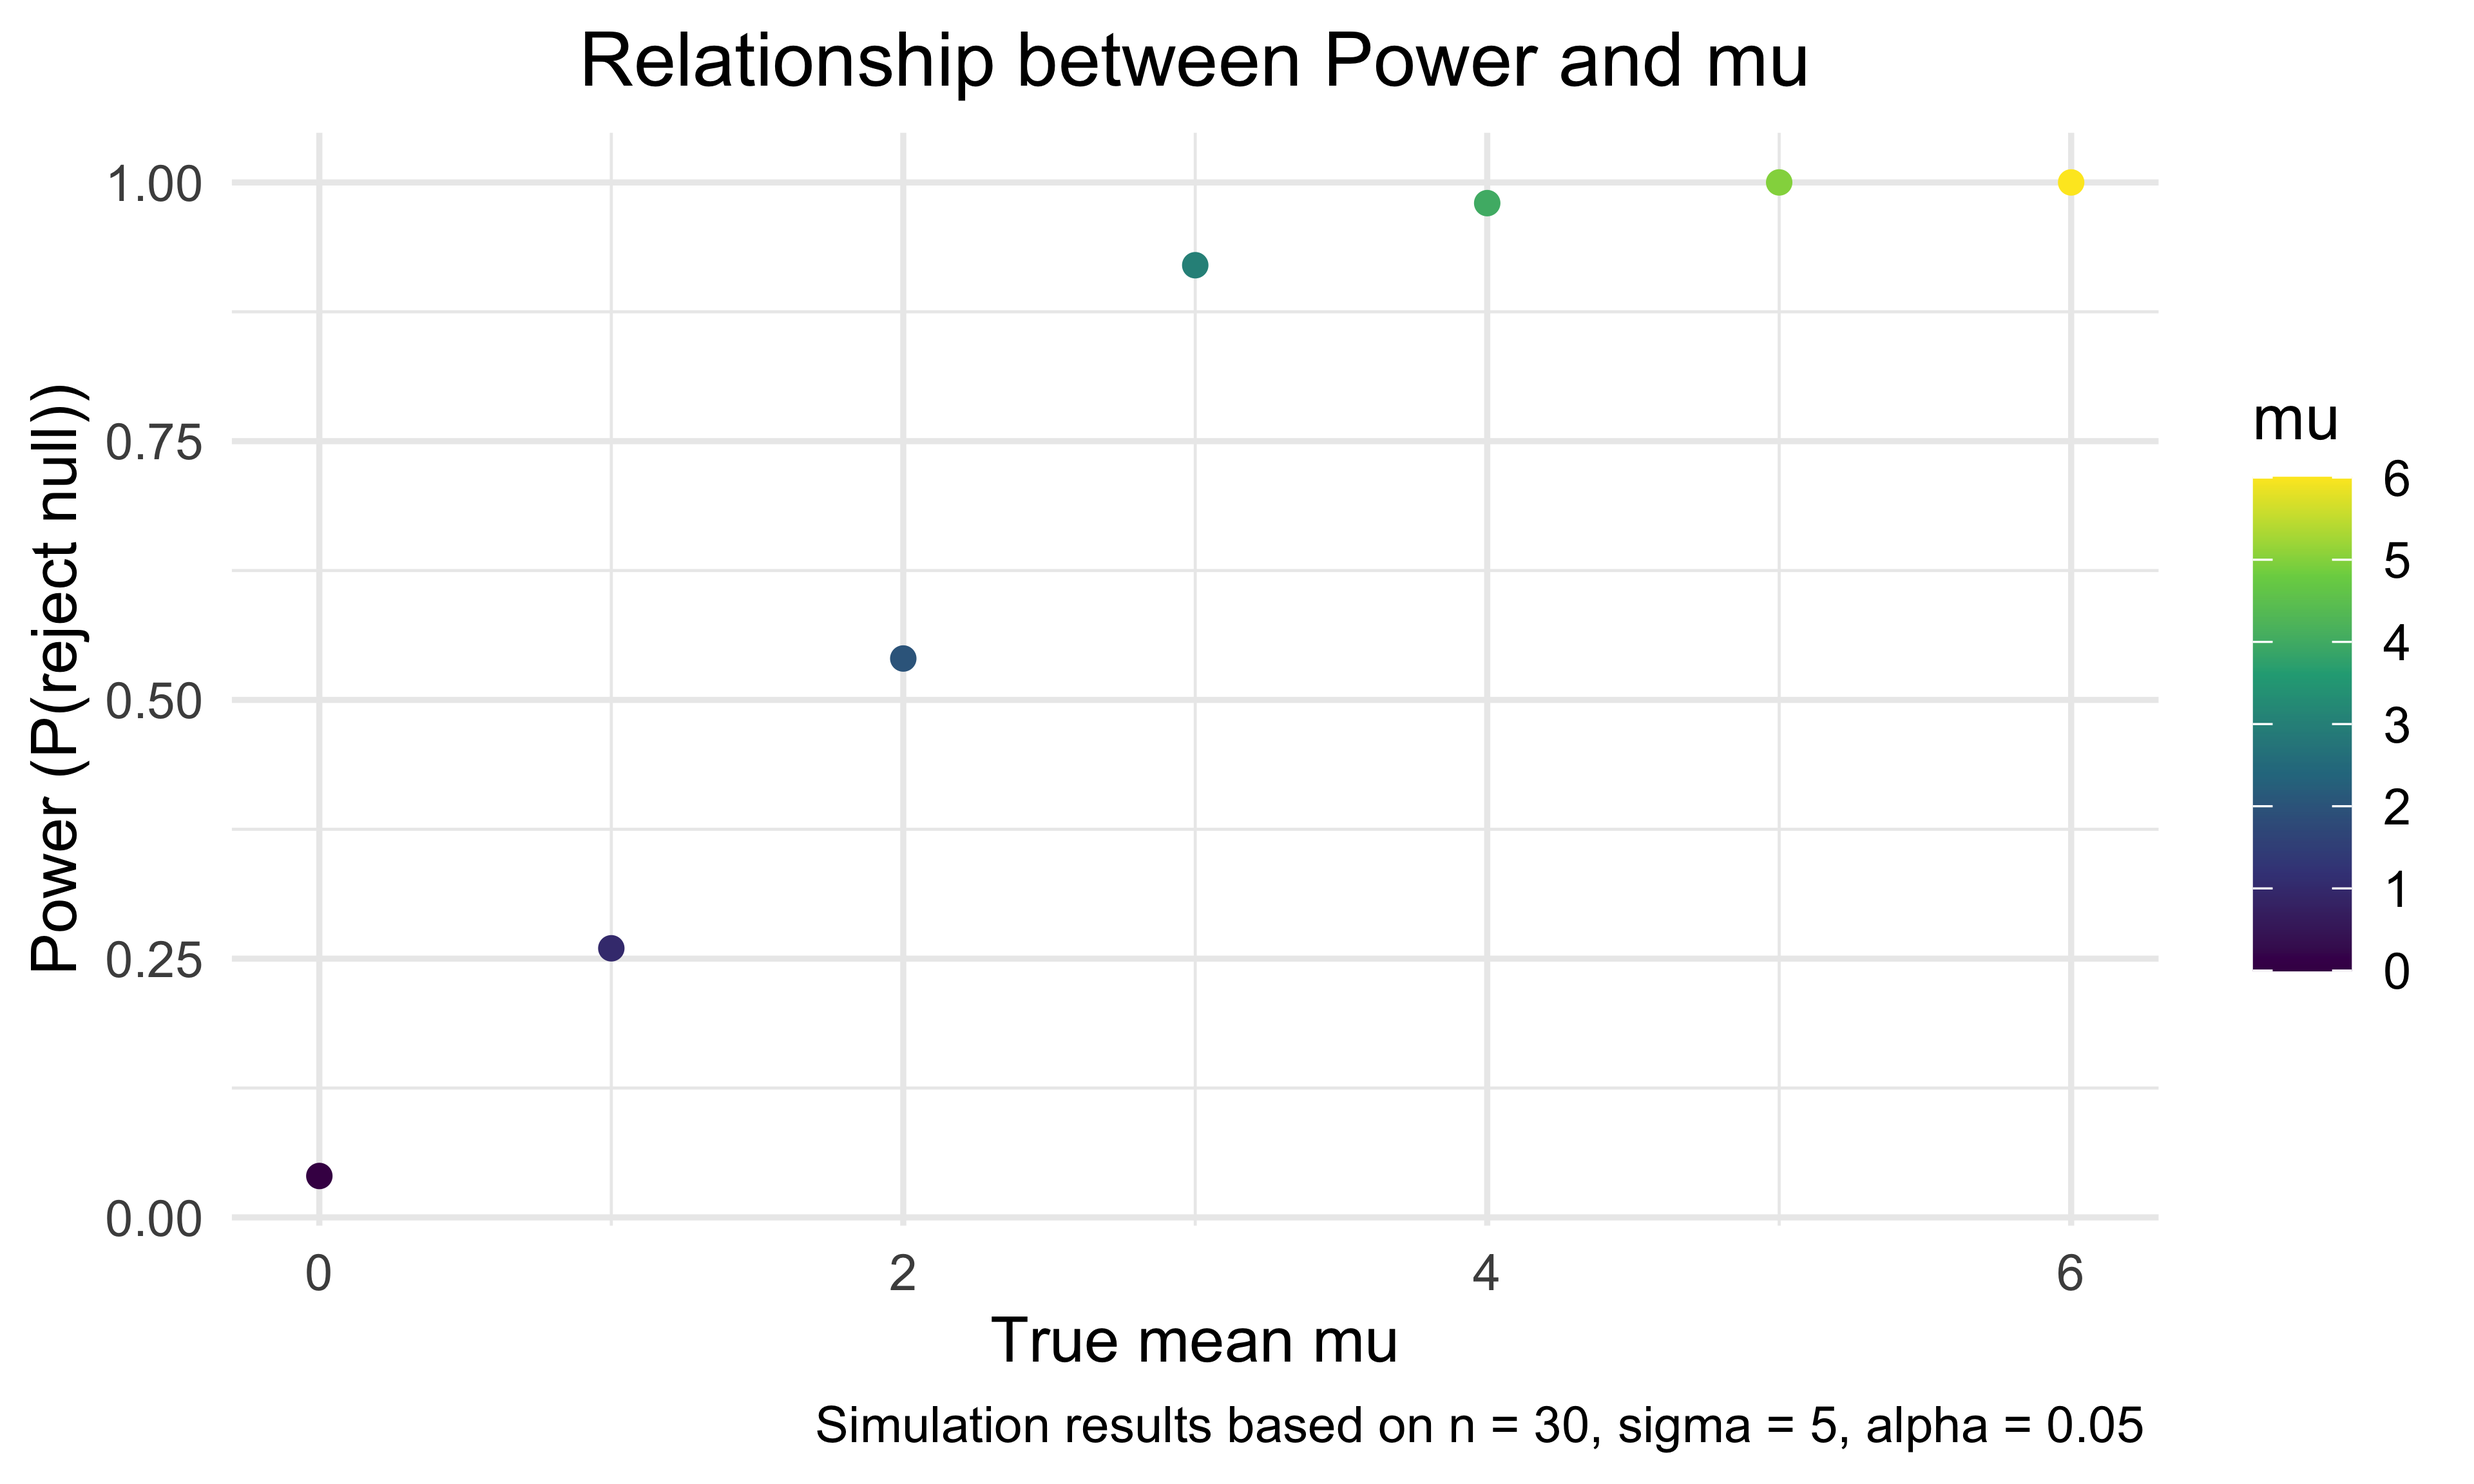
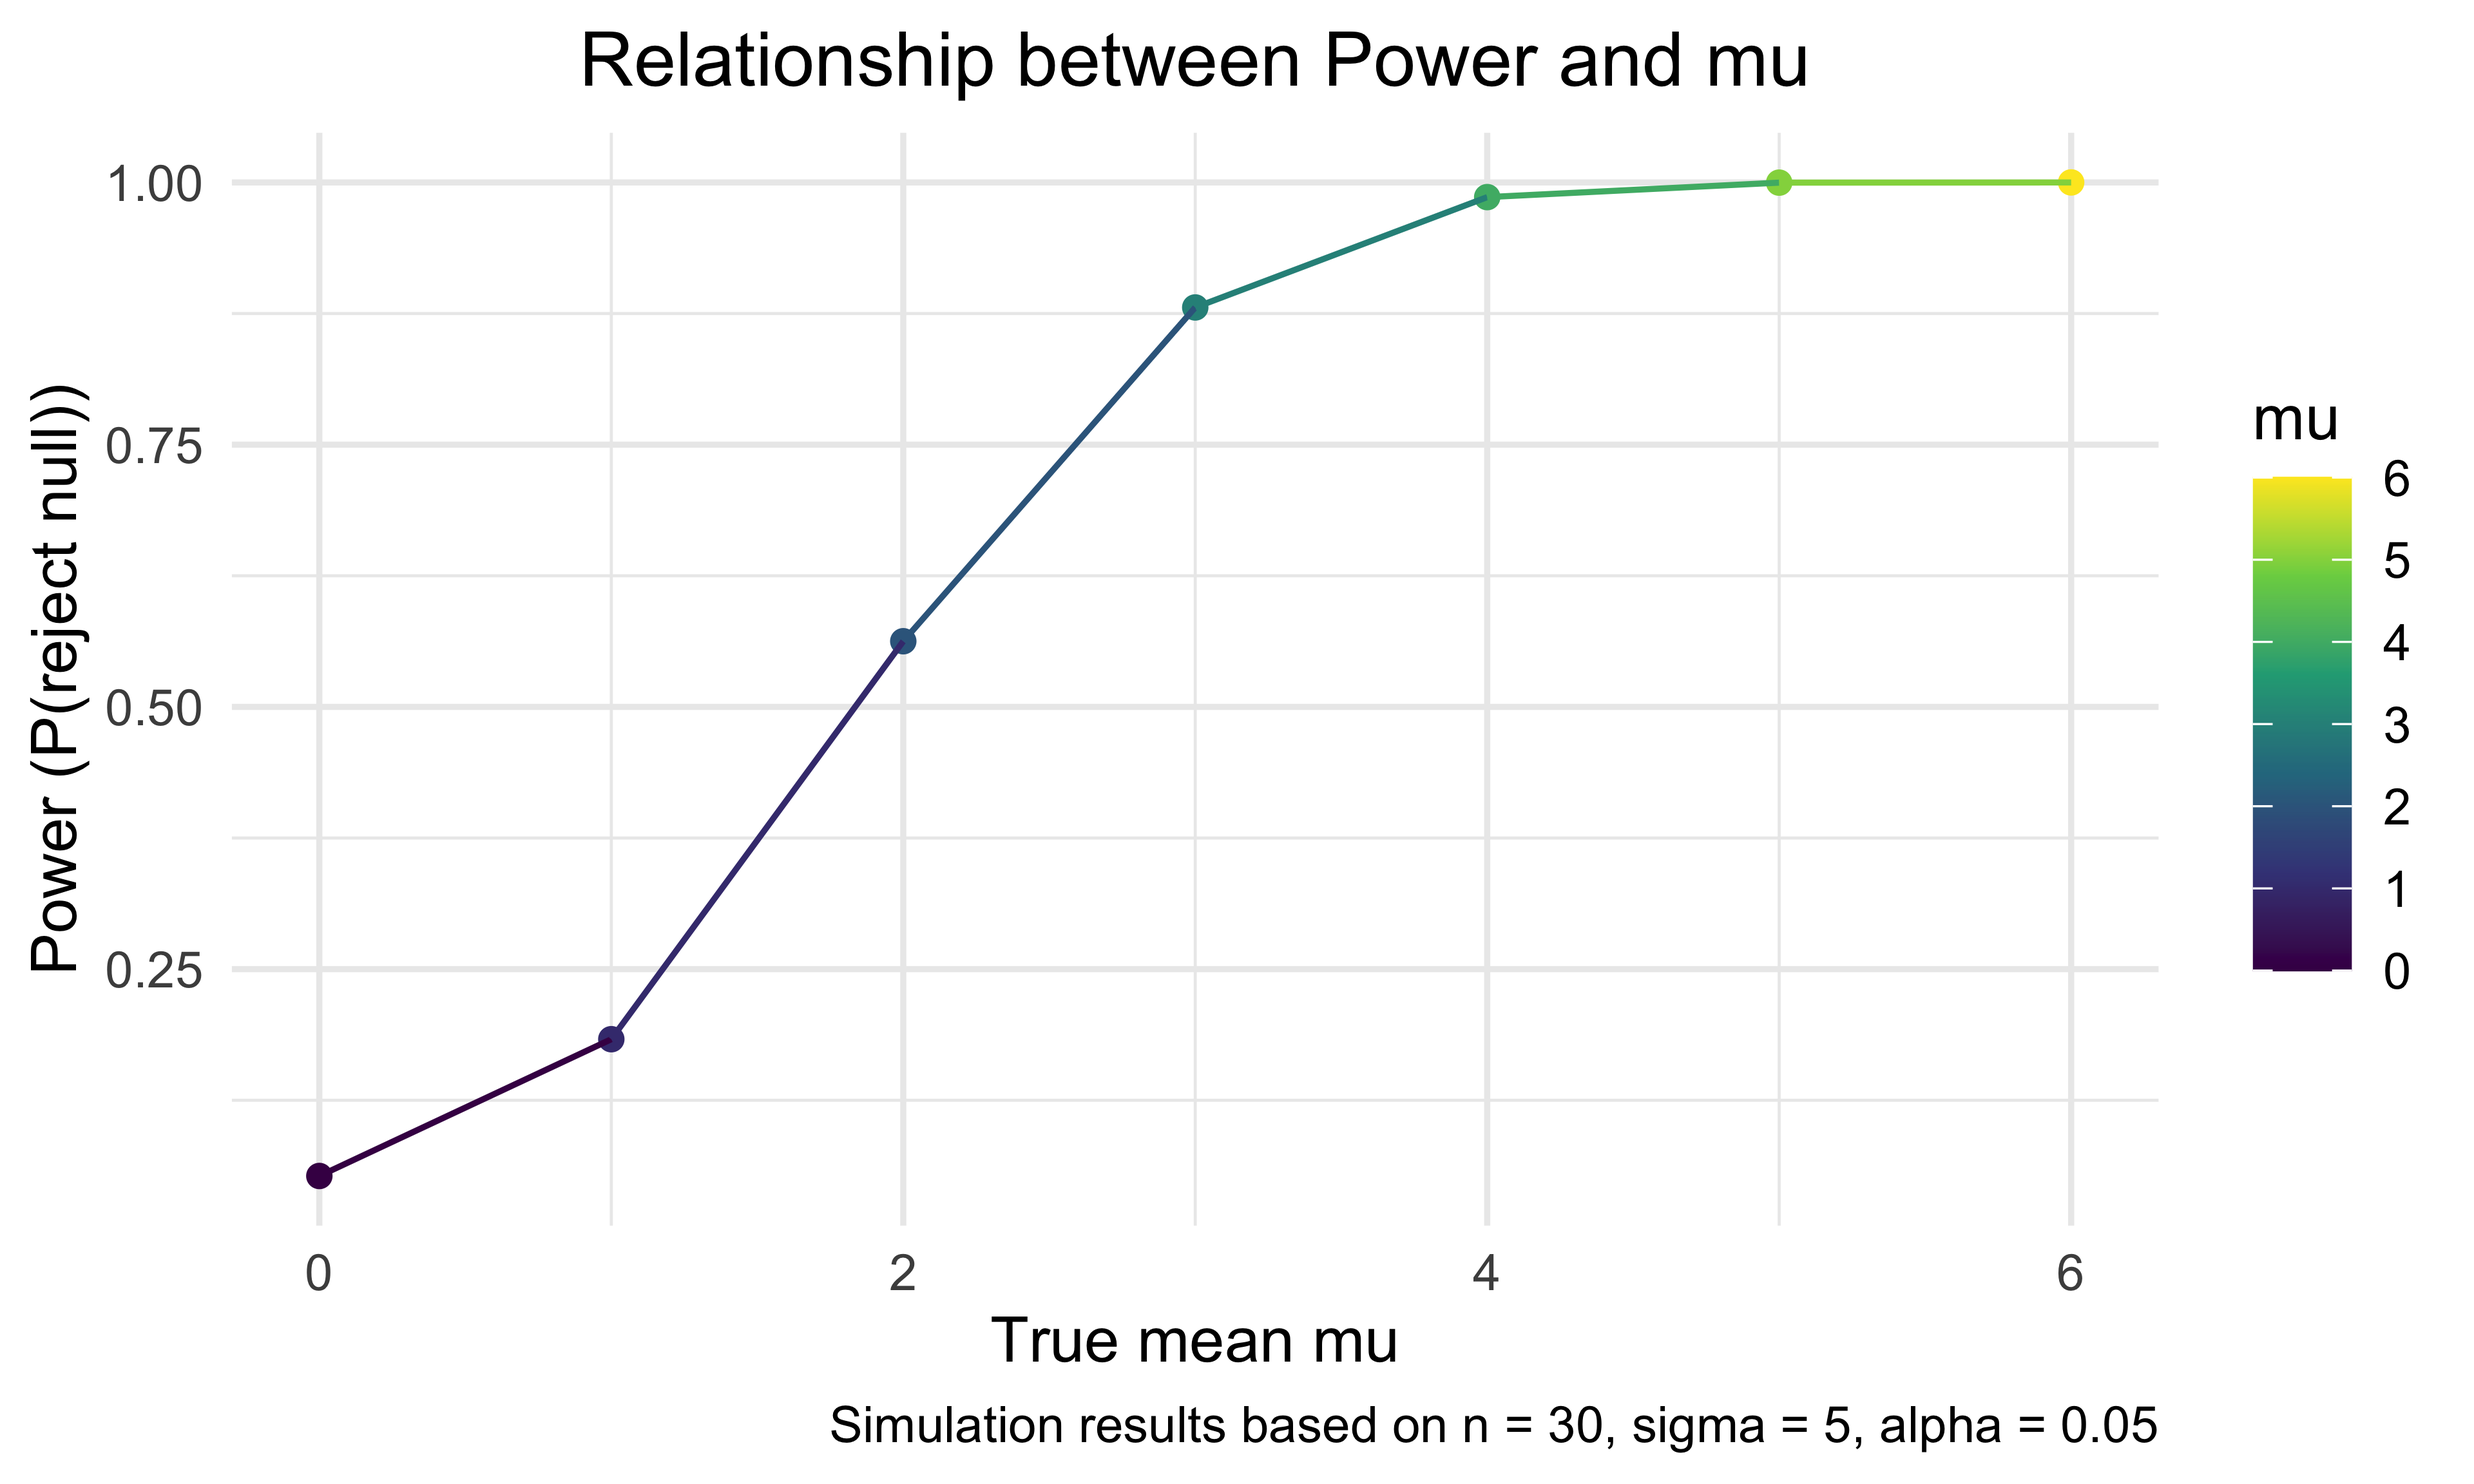
Problem 2 completed.

diff --git a/p8105_hw5_bz2561.md b/p8105_hw5_bz2561.md
@@ -85,18 +85,16 @@ Do the simulation
 t_test_results = 
   expand_grid(
     mu = 0:6,
-    iter = 1:50
+    iter = 1:5000
   ) |> 
   mutate(
     result = map(mu, t_test)
   ) |> 
-  group_by(
-    mu
-  ) |> 
+  group_by(mu) |> 
   unnest(result)
 ```
 
-### mu vs. power
+### plot 1: mu vs. power
 
 ``` r
 mu_power = 
@@ -106,11 +104,12 @@ mu_power =
 mu_power |> 
   ggplot(aes(x = mu, y = power, color = mu)) +
   geom_point() +
+  geom_line() +
   labs(
     x = "True mean mu",
     y = "Power (P(reject null))",
     title = "Relationship between Power and mu",
-    caption = "Simulation results based on n = 30, sigma = 5, alpha = 0.05 "
+    caption = "Simulation results based on n = 30, sigma = 5, alpha = 0.05"
   ) +
   theme(
     legend.position = "right",
@@ -119,6 +118,48 @@ mu_power |>
 ```
 
 <img src="p8105_hw5_bz2561_files/figure-gfm/unnamed-chunk-8-1.png" width="90%" />
+
+### plot 2: mu vs. mu_hat
+
+``` r
+mu_summary_all <-
+  t_test_results |>
+  group_by(mu) |> 
+  summarize(avg_mu_hat = mean(mu_hat))
+
+mu_summary_sig <-
+  t_test_results |>
+  group_by(mu) |> 
+  filter(p.value < 0.05) |>
+  summarize(
+    avg_mu_hat_sig = mean(mu_hat)
+    )
+
+mu_summary <-
+  left_join(mu_summary_all, mu_summary_sig, by = "mu")
+```
+
+``` r
+mu_summary |> 
+  ggplot(aes(x = mu)) +
+  geom_point(aes(y = avg_mu_hat, color = "all mu included")) +
+  geom_line(aes(y = avg_mu_hat, color = "all mu included")) +
+  geom_point(aes(y = avg_mu_hat_sig, color = "significant mu only")) +
+  geom_line(aes(y = avg_mu_hat_sig, color = "significant mu only")) +
+  labs(
+    title = "Relationship between mu and mu_hat", 
+    x = "True mean mu", 
+    y = "Estimated mean mu_hat",
+    caption = "Simulation results based on n = 30, sigma = 5, alpha = 0.05",
+    color = ""
+    ) +
+  theme(
+    legend.position = "right",
+    plot.title = element_text(hjust = 0.5)
+    )
+```
+
+<img src="p8105_hw5_bz2561_files/figure-gfm/unnamed-chunk-10-1.png" width="90%" />
 
 ## Problem 3
 
